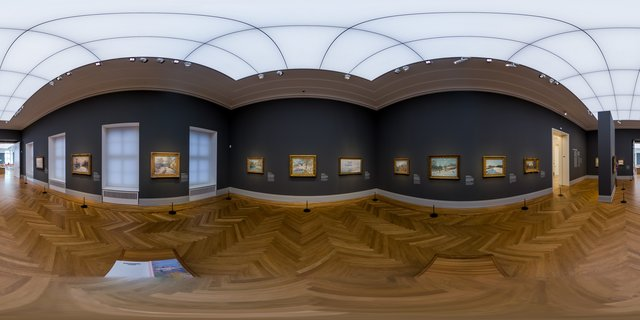
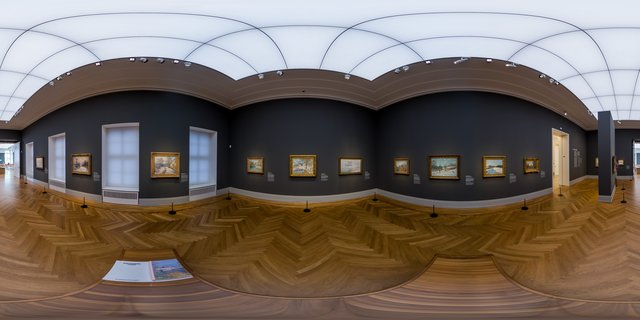
Barberini-Nadir final: echtes Exemplar-Inpainting (Criminisi) fuellt das Stativ mit Parkett aus der Umgebung; Maserung laeuft lokal korrekt weiter

Changed region(s): [[0.0312, 0.8438, 1.0, 1.0], [0.0, 0.875, 0.0625, 0.9688]]

diff --git a/scripts/barberini_nadir_exemplar.py b/scripts/barberini_nadir_exemplar.py
@@ -1,0 +1,105 @@
+#!/usr/bin/env python3
+"""Stativ am Nadir der Barberini-Panos per Exemplar-Inpainting (Criminisi-Prinzip)
+entfernen: Boden flach entzerren -> Loch mit echten Parkett-Stuecken aus der
+direkten Umgebung fuellen (Orientierung passt lokal) -> zurueck ins Panorama.
+Kein Weichzeichner, kein Klon-Flicken mit falscher Maserung."""
+import numpy as np
+import cv2
+from pathlib import Path
+from PIL import Image
+
+Image.MAX_IMAGE_PIXELS = None
+REPO = Path(__file__).resolve().parents[1]
+BASE = REPO / "platform" / "dev-data" / "media" / "scenes"
+RAW = REPO / "input" / "commons"
+
+
+def sample(arr, sx, sy):
+    Hh, Ww = arr.shape[:2]
+    sx = np.clip(sx, 0, Ww - 1); sy = np.clip(sy, 0, Hh - 1)
+    x0 = np.floor(sx).astype(int); y0 = np.floor(sy).astype(int)
+    x1 = np.minimum(x0 + 1, Ww - 1); y1 = np.minimum(y0 + 1, Hh - 1)
+    wx = (sx - x0)[..., None]; wy = (sy - y0)[..., None]
+    return (arr[y0, x0] * (1 - wx) * (1 - wy) + arr[y0, x1] * wx * (1 - wy)
+            + arr[y1, x0] * (1 - wx) * wy + arr[y1, x1] * wx * wy)
+
+
+def flat(a, R, alpha):
+    H, W, _ = a.shape; D = np.tan(alpha); c = (R - 1) / 2
+    ys, xs = np.mgrid[0:R, 0:R].astype(np.float32); X = (xs - c) / c * D; Y = (ys - c) / c * D
+    d = np.sqrt(X * X + Y * Y); th = np.arctan(d); phi = np.arctan2(Y, X); lat = th - np.pi / 2
+    ex = ((phi / (2 * np.pi)) + 0.5) * (W - 1); ey = (0.5 - lat / np.pi) * (H - 1)
+    return sample(a, ex, ey), (th <= alpha), d, D, c
+
+
+def exemplar(F, mask, P=11, search=90, max_steps=60000):
+    H, W = mask.shape; pr = P // 2
+    img = np.clip(F, 0, 255).astype(np.uint8)
+    known = (mask == 0).astype(np.uint8)
+    full = cv2.erode(known, np.ones((P, P), np.uint8))
+    steps = 0
+    while known.sum() < H * W and steps < max_steps:
+        holem = (known == 0).astype(np.uint8)
+        if holem.sum() == 0:
+            break
+        bnd = holem * (cv2.dilate(known, np.ones((3, 3), np.uint8)) > 0)
+        kc = cv2.boxFilter(known.astype(np.float32), -1, (P, P), normalize=False) * bnd
+        py, px = np.unravel_index(np.argmax(kc), kc.shape)
+        y0, y1, x0, x1 = py - pr, py + pr + 1, px - pr, px + pr + 1
+        if y0 < 0 or x0 < 0 or y1 > H or x1 > W:
+            known[py, px] = 1; continue
+        tp = img[y0:y1, x0:x1]; tm = (known[y0:y1, x0:x1] * 255).astype(np.uint8)
+        sy0, sy1 = max(pr, py - search), min(H - pr, py + search)
+        sx0, sx1 = max(pr, px - search), min(W - pr, px + search)
+        reg = img[sy0 - pr:sy1 + pr, sx0 - pr:sx1 + pr]
+        res = cv2.matchTemplate(reg, tp, cv2.TM_SQDIFF, mask=tm).astype(np.float32)
+        fr = full[sy0:sy1, sx0:sx1]
+        res[fr[:res.shape[0], :res.shape[1]] == 0] = 1e18   # nur voll-bekannte Quellen
+        my, mx = np.unravel_index(np.argmin(res), res.shape)
+        syc, sxc = sy0 + my, sx0 + mx
+        sp = img[syc - pr:syc + pr + 1, sxc - pr:sxc + pr + 1]
+        unk = known[y0:y1, x0:x1] == 0
+        blk = img[y0:y1, x0:x1].copy(); blk[unk] = sp[unk]; img[y0:y1, x0:x1] = blk
+        known[y0:y1, x0:x1][unk] = 1
+        full = cv2.erode(known, np.ones((P, P), np.uint8))
+        steps += 1
+    return img.astype(np.float32)
+
+
+def heal(a, alpha_deg=50, R=1100):
+    H, W, _ = a.shape; alpha = np.radians(alpha_deg)
+    F, valid, d, D, c = flat(a, R, alpha); luma = F.mean(2)
+    fm = np.median(luma[(d > 0.5 * np.tan(alpha)) & valid])
+    mask = ((luma < fm * 0.66) & (d < 0.5 * np.tan(alpha)) & valid).astype(np.uint8)
+    mask = cv2.morphologyEx(mask, cv2.MORPH_CLOSE, np.ones((7, 7), np.uint8))
+    n, lab, stats, cent = cv2.connectedComponentsWithStats(mask, 8); keep = np.zeros_like(mask)
+    for k in range(1, n):
+        if stats[k, 4] >= 20 and ((cent[k][0] - c) ** 2 + (cent[k][1] - c) ** 2) ** 0.5 < 0.5 * c:
+            keep[lab == k] = 1
+    mask = cv2.dilate(keep, np.ones((5, 5), np.uint8), 2) * 255
+    filled = exemplar(F, mask)
+    soft = cv2.GaussianBlur(mask.astype(np.float32) / 255, (0, 0), 2)[..., None]
+    Ff = filled * soft + F * (1 - soft)
+    yb = int((0.5 - (-np.pi / 2 + alpha) / np.pi) * (H - 1))
+    Yy, Xx = np.mgrid[yb:H, 0:W].astype(np.float32)
+    lat2 = (0.5 - Yy / (H - 1)) * np.pi; lon2 = (Xx / (W - 1) - 0.5) * 2 * np.pi
+    th2 = np.clip(lat2 + np.pi / 2, 0, alpha); d2 = np.tan(th2)
+    gx = c + (d2 / D) * c * np.cos(lon2); gy = c + (d2 / D) * c * np.sin(lon2)
+    hv = sample(Ff, gx, gy); mv = np.clip(sample(soft, gx, gy), 0, 1)
+    out = a.copy(); out[yb:H] = hv * mv + a[yb:H] * (1 - mv)
+    return Image.fromarray(np.clip(out, 0, 255).astype(np.uint8))
+
+
+def main():
+    for i in range(1, 11):
+        a = np.asarray(Image.open(RAW / f"barberini-{i:02d}_raw.jpg").convert("RGB")
+                       .resize((4096, 2048), Image.LANCZOS)).astype(np.float32)
+        fx = heal(a); d = BASE / f"barberini-{i:02d}"
+        fx.save(d / "pano.jpg", quality=90)
+        fx.resize((640, 320), Image.LANCZOS).save(d / "thumb.jpg", quality=85)
+        print(f"  barberini-{i:02d}: Stativ per Exemplar-Inpainting entfernt", flush=True)
+    print("Fertig.")
+
+
+if __name__ == "__main__":
+    main()

diff --git a/platform/dev/seed_barberini.py b/platform/dev/seed_barberini.py
@@ -77,60 +77,16 @@ def sid_for(i):
     return f"barberini-{i+1:02d}"
 
 
-def _sample(arr, sx, sy):
-    Hh, Ww = arr.shape[:2]
-    sx = np.clip(sx, 0, Ww - 1); sy = np.clip(sy, 0, Hh - 1)
-    x0 = np.floor(sx).astype(int); y0 = np.floor(sy).astype(int)
-    x1 = np.minimum(x0 + 1, Ww - 1); y1 = np.minimum(y0 + 1, Hh - 1)
-    wx = (sx - x0)[..., None]; wy = (sy - y0)[..., None]
-    return (arr[y0, x0] * (1 - wx) * (1 - wy) + arr[y0, x1] * wx * (1 - wy)
-            + arr[y1, x0] * (1 - wx) * wy + arr[y1, x1] * wx * wy)
+sys.path.insert(0, str(REPO / "scripts"))
+from barberini_nadir_exemplar import heal as _nadir_heal     # noqa: E402
 
 
-def _flat_floor(a, R, alpha):
-    """Boden in eine flache Draufsicht (orthographisch) entzerren -- dort ist das
-    Parkett ein exakt periodisches Muster, ideal zum Klonen."""
-    H, W, _ = a.shape; D = np.tan(alpha); c = (R - 1) / 2
-    ys, xs = np.mgrid[0:R, 0:R].astype(np.float32); X = (xs - c) / c * D; Y = (ys - c) / c * D
-    d = np.sqrt(X * X + Y * Y); theta = np.arctan(d); phi = np.arctan2(Y, X); lat = theta - np.pi / 2
-    ex = ((phi / (2 * np.pi)) + 0.5) * (W - 1); ey = (0.5 - lat / np.pi) * (H - 1)
-    return _sample(a, ex, ey), (theta <= alpha), d, D, c
-
-
-def fill_nadir(im, alpha_deg=55, R=1600, dhole=0.46):
-    """Stativ am Nadir wie GIMP/Photoshop entfernen: Boden flach entzerren ->
-    die am besten passende Parkett-Stelle per Template-Matching finden und ins
-    Loch KLONEN (echte Textur statt Weichzeichner) -> mit Poisson-Blending
-    (seamlessClone) an Licht/Farbe angleichen -> zurueck ins Panorama."""
-    a = np.asarray(im.convert("RGB")).astype(np.float32); H, W, _ = a.shape
-    alpha = np.radians(alpha_deg)
-    F, valid, d, D, c = _flat_floor(a, R, alpha)
-    hole = ((d < dhole) & valid).astype(np.uint8)
-    yy, xx = np.where(hole > 0); y0, y1 = yy.min(), yy.max(); x0, x1 = xx.min(), xx.max(); m = 45
-    bx0, by0 = max(0, x0 - m), max(0, y0 - m); bx1, by1 = min(R, x1 + m), min(R, y1 + m)
-    L = cv2.cvtColor(np.clip(F, 0, 255).astype(np.uint8), cv2.COLOR_RGB2GRAY).astype(np.float32)
-    templ = L[by0:by1, bx0:bx1]
-    tmask = ((valid) & (hole == 0))[by0:by1, bx0:bx1].astype(np.uint8) * 255
-    res = cv2.matchTemplate(L, templ, cv2.TM_CCORR_NORMED, mask=tmask); res[~np.isfinite(res)] = 0
-    cv2.circle(res, (bx0, by0), int(dhole * c * 0.9), 0, -1)
-    _, _, _, maxloc = cv2.minMaxLoc(res); dxp = maxloc[0] - bx0; dyp = maxloc[1] - by0
-    Mt = np.float32([[1, 0, -dxp], [0, 1, -dyp]])
-    src = cv2.warpAffine(np.clip(F, 0, 255).astype(np.uint8), Mt, (R, R),
-                         flags=cv2.INTER_LINEAR, borderMode=cv2.BORDER_REFLECT)
-    dst = np.clip(F, 0, 255).astype(np.uint8)
-    hmask = (cv2.erode(hole, np.ones((3, 3), np.uint8), 1) * 255).astype(np.uint8)
-    ctr = (int((x0 + x1) / 2), int((y0 + y1) / 2))
-    blended = cv2.seamlessClone(src, dst, hmask, ctr, cv2.NORMAL_CLONE).astype(np.float32)
-    soft = cv2.GaussianBlur(hole.astype(np.float32), (31, 31), 0)[..., None]
-    Ff = blended * soft + F * (1 - soft)
-    yb = int((0.5 - (-np.pi / 2 + alpha) / np.pi) * (H - 1))
-    Yy, Xx = np.mgrid[yb:H, 0:W].astype(np.float32)
-    lat2 = (0.5 - Yy / (H - 1)) * np.pi; lon2 = (Xx / (W - 1) - 0.5) * 2 * np.pi
-    theta2 = np.clip(lat2 + np.pi / 2, 0, alpha); d2 = np.tan(theta2)
-    gx = c + (d2 / D) * c * np.cos(lon2); gy = c + (d2 / D) * c * np.sin(lon2)
-    hv = _sample(Ff, gx, gy); mv = np.clip(_sample(soft, gx, gy), 0, 1)
-    a[yb:H] = hv * mv + a[yb:H] * (1 - mv)
-    return Image.fromarray(np.clip(a, 0, 255).astype(np.uint8))
+def fill_nadir(im):
+    """Stativ am Nadir per Exemplar-Inpainting entfernen (Criminisi-Prinzip): das
+    Loch wird mit echten Parkett-Stuecken aus der direkten Umgebung gefuellt, die
+    Maserung laeuft lokal korrekt weiter. Details in
+    scripts/barberini_nadir_exemplar.py."""
+    return _nadir_heal(np.asarray(im.convert("RGB")).astype(np.float32))
 
 
 # Aus Sichtpruefung der 10 Panos verortete Tuer-Winkel (yaw) je Saal (1-basiert):
